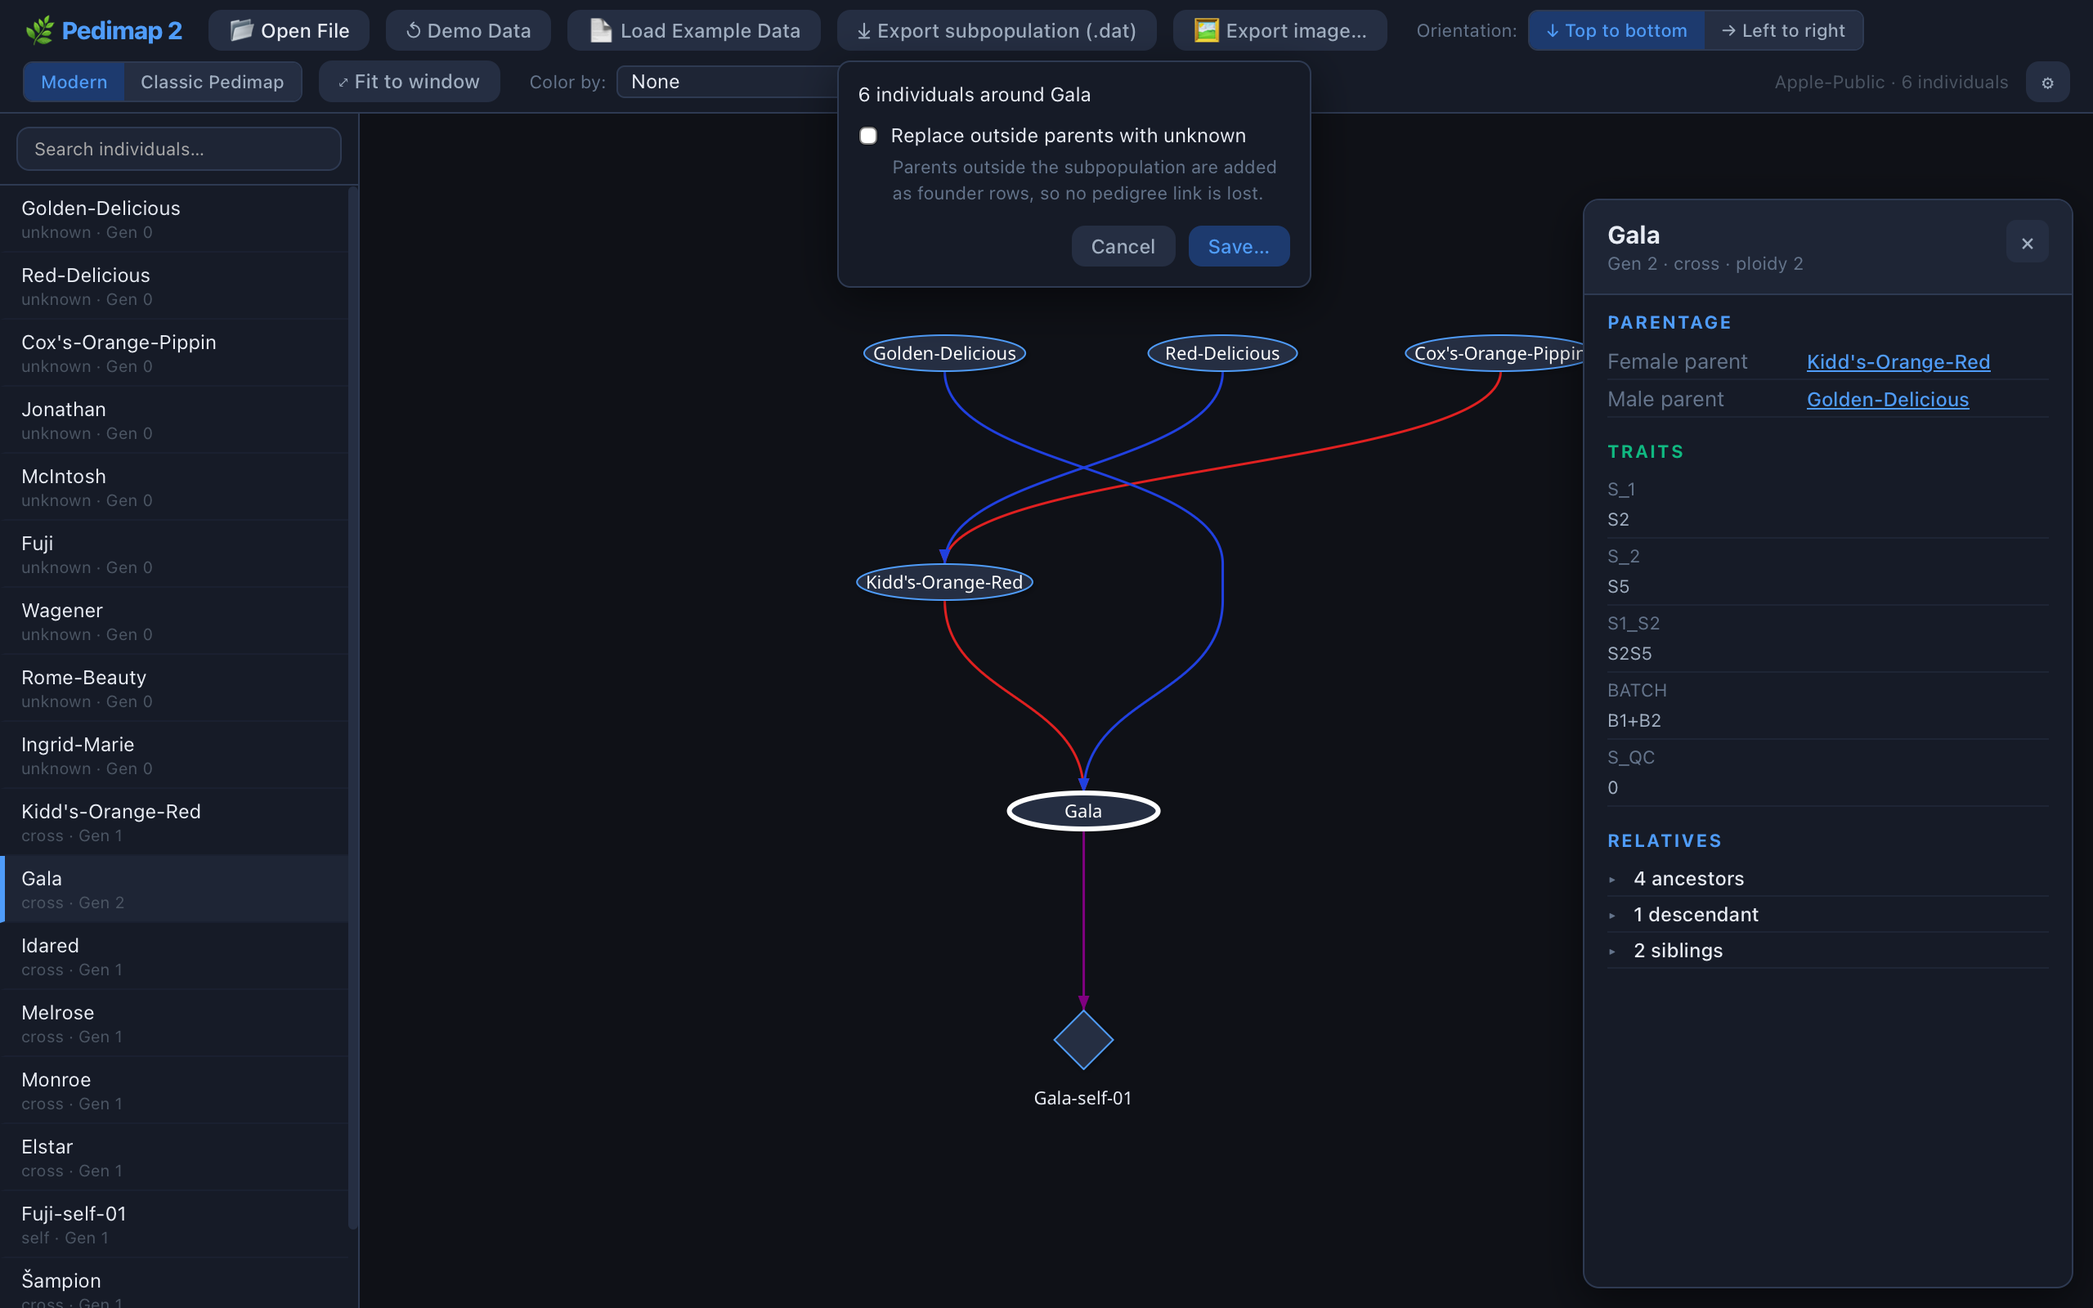
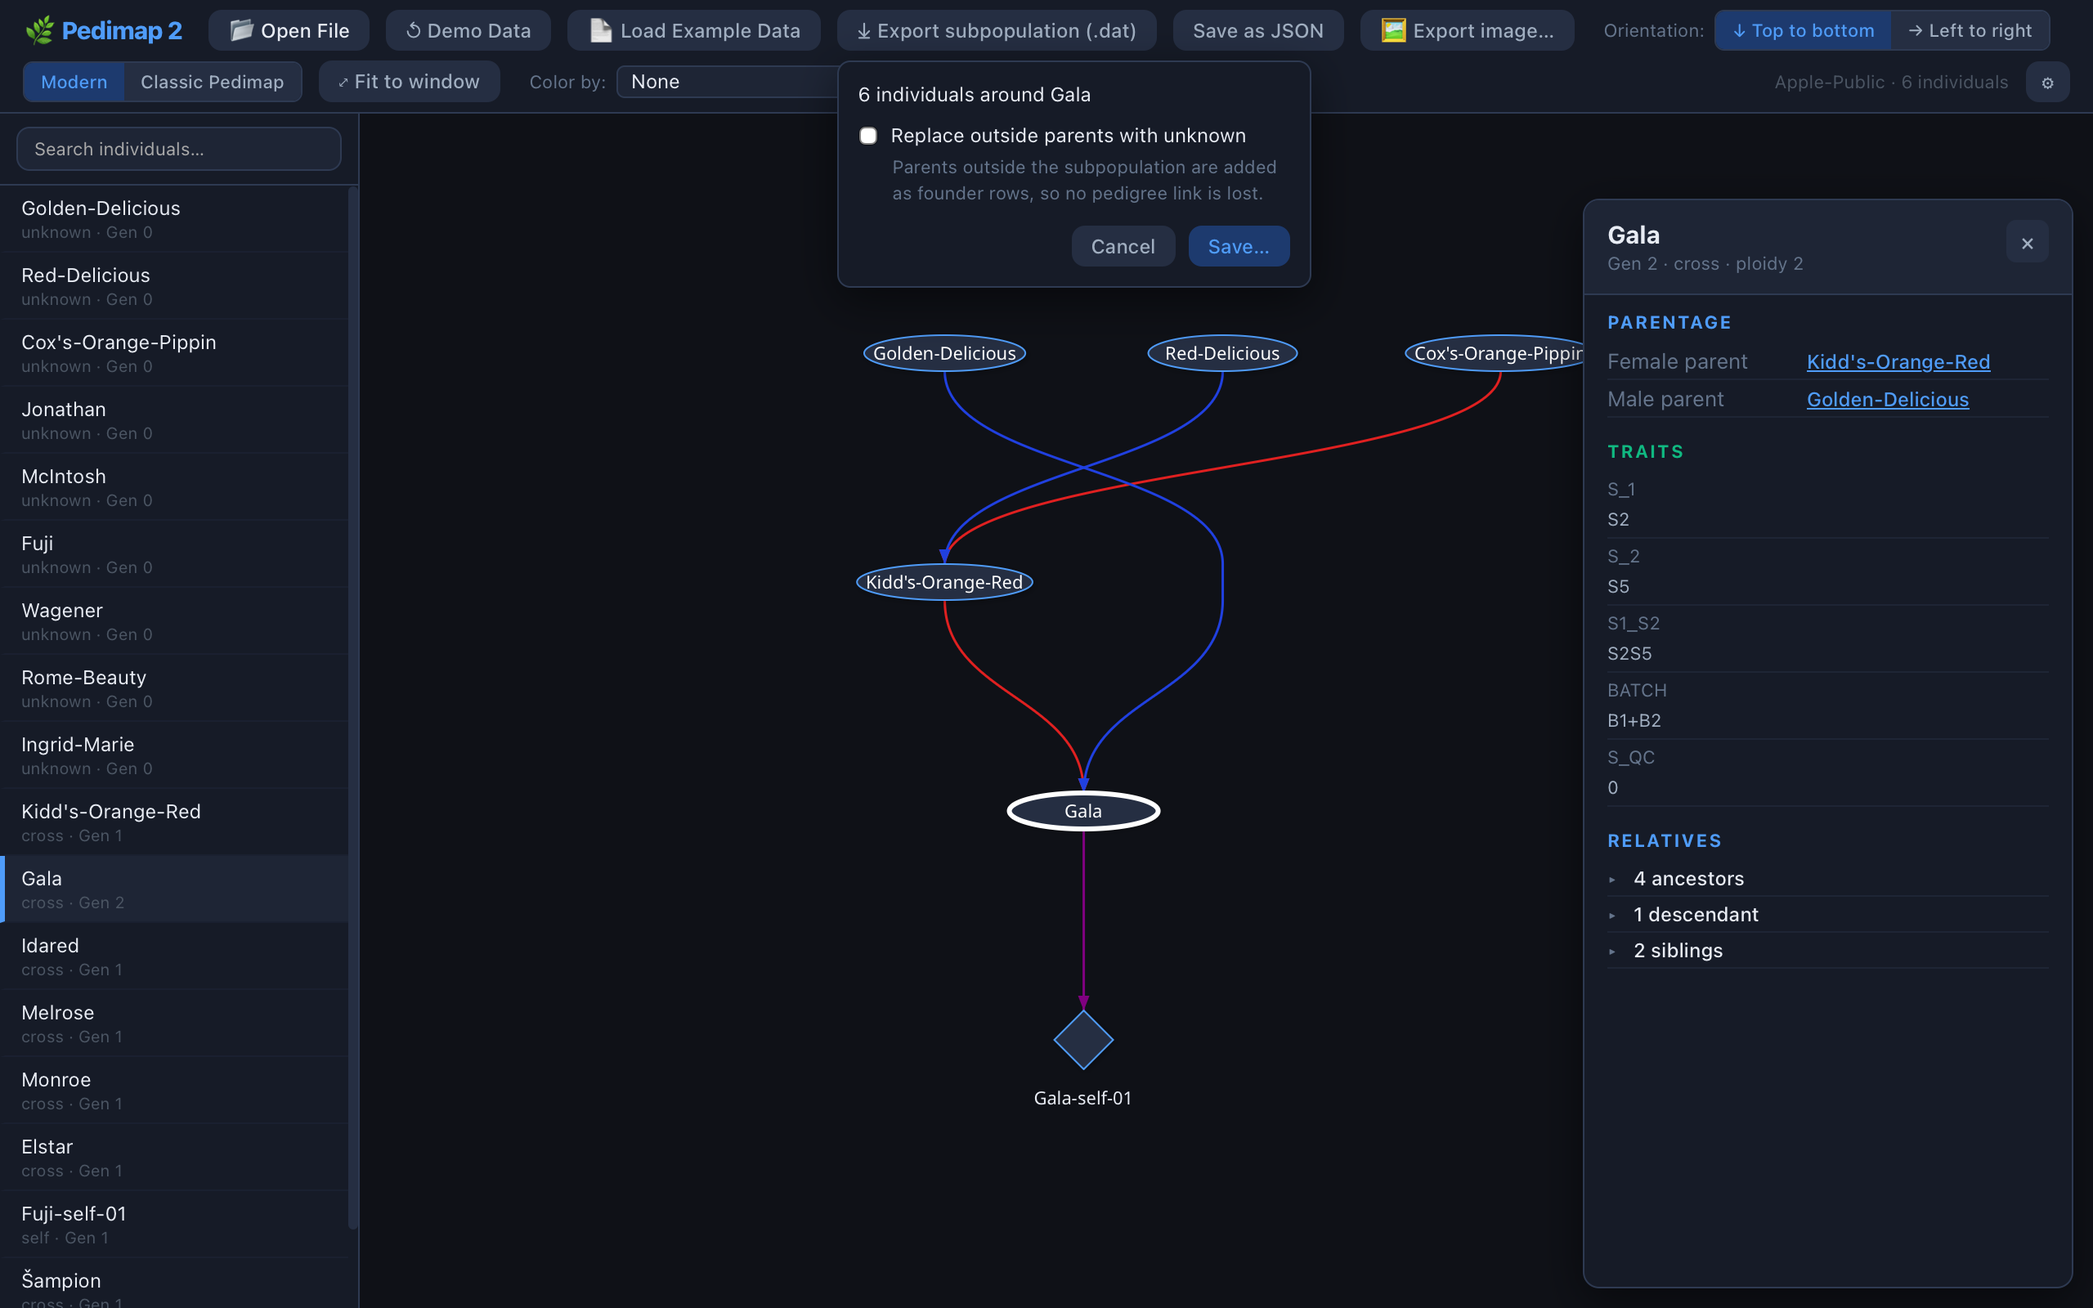
release: 2.5.0 (manual, README, CHANGELOG)
Manual: the on-screen founder-allele legend (ch. 3, 5, 6, with a new
screenshot), Save as JSON (ch. 4, 5, 7 with a new section, 9) and Parent 1
/ Parent 2 for data without parent columns (ch. 5, 6); Appendix A for
Pedimap 2.5 with the legend on screen; title page for 2.5. Screenshots
regenerated (the toolbar gained Save as JSON); the legend is collapsed in
the palette crops and the tooltip shot.

README: Save as JSON with a link to the format, the legend in the IBD row,
a roadmap line for 2.5.0. CHANGELOG [2.5.0]. Version 2.5.0 in the four
version files and both lockfiles.

Changed region(s): [[0.5625, 0.0, 1.0, 0.0625]]

diff --git a/frontend/docs-screenshots/manual.spec.ts b/frontend/docs-screenshots/manual.spec.ts
@@ -119,6 +119,8 @@ test("ibd-bars-example.png: linkage group A, the mouse on 81015-045 at 0 cM", as
   await loadExample(page);
   await page.getByLabel("IBD bars").selectOption("A");
   await settle(page);
+  // This one is about the tooltip; the legend has its own screenshot.
+  await page.getByRole("group", { name: "Founder alleles" }).getByRole("button").click();
   const b = (await boxOf(page, "81015-045"))!;
   // In the box (lib/haplotype.ts, haplotypeBox, default settings): the first
   // homologue's bar starts BOX.gap/2 + barWidth left of the middle, below the
@@ -133,9 +135,11 @@ test("ibd-bars-example.png: linkage group A, the mouse on 81015-045 at 0 cM", as
   await page.mouse.move(x, y);
   await page.waitForTimeout(400);
   await expect(page.getByText(/0\.22/)).toBeVisible();
+  // The box, the lines into it and the tooltip; starting just left of the
+  // box keeps the legend in the chart's corner out of the picture.
   const pad = 140;
   await page.screenshot({ path: out("ibd-bars-example.png"),
-    clip: { x: Math.max(0, b.left - pad), y: Math.max(0, b.top - pad), width: b.width + 2 * pad + 220, height: b.height + 2 * pad } });
+    clip: { x: b.left - 30, y: Math.max(0, b.top - pad), width: b.width + 30 + pad + 220, height: b.height + pad + 30 } });
 });
 
 test("details-ibd.png: the IBD section of 81015-045, group A at 0 cM", async ({ page }) => {
@@ -243,6 +247,8 @@ test("flexqtl-by-founder.png, flexqtl-by-allele.png: the same part of the chart 
   await loadFixture(page, FLEXQTL);
   await page.getByLabel("IBD bars").selectOption({ index: 1 });            // linkage group 1
   await settle(page);
+  // The legend has its own screenshot; collapsed, it covers none of the boxes.
+  await page.getByRole("group", { name: "Founder alleles" }).getByRole("button").click();
   // Zoom in on generations 2 and 3, around G3_010, and keep ten boxes of each.
   await zoomAt(page, "G3_010", 9);
   const ids = ["G2", "G3"].flatMap(g => Array.from({ length: 10 }, (_, i) => `${g}_${String(i + 6).padStart(3, "0")}`));
@@ -254,6 +260,14 @@ test("flexqtl-by-founder.png, flexqtl-by-allele.png: the same part of the chart 
   await page.getByTitle("Settings").click();                 // close it again
   await restMouse(page);
   await page.screenshot({ path: out("flexqtl-by-allele.png"), clip: area });
+});
+
+test("ibd-legend.png: the example with IBD bars and the founder-allele legend", async ({ page }) => {
+  await loadExample(page);
+  await page.getByLabel("IBD bars").selectOption("A");
+  await settle(page);
+  await expect(page.getByRole("group", { name: "Founder alleles" })).toBeVisible();
+  await page.screenshot({ path: out("ibd-legend.png"), clip: await chartArea(page) });
 });
 
 // ── Chapters 7 and 8: subpopulations, export, large pedigrees ────────────────

diff --git a/docs/09_faq.md b/docs/09_faq.md
@@ -83,8 +83,9 @@ to **By founder allele**, or show a subpopulation, which has fewer founders.
 
 **The colors of a founder changed.**
 Colors are shared out over the founders of the individuals shown, so they
-change when you show a subpopulation or open another file. The exported
-image's legend always gives the colors of that image.
+change when you show a subpopulation or open another file. The legend at the
+lower left of the chart always gives the colors shown, and an exported
+image's legend those of that image.
 
 ## Exporting
 
@@ -97,7 +98,8 @@ Very large charts are saved at a lower resolution, to stay within 16,000
 pixels per side. Save an SVG or PDF instead.
 
 **Can I save a JSON file?**
-Not yet. Save the pedigree as a `.dat` file ([Chapter 7](07_data_export.md)).
+Yes: **Save as JSON** saves the whole population with all of its data. For a
+subpopulation, use **Export subpopulation (.dat)** ([Chapter 7](07_data_export.md)).
 
 ## Appendix A: Pedimap 2 and the original Pedimap
 
@@ -106,7 +108,7 @@ colors and IBD probabilities and shows the marker data, in a classic display
 style like Pedimap 1.x's and a modern one. Several features of Pedimap 1.x are not
 available yet:
 
-| Pedimap 1.x | Pedimap 2.4 |
+| Pedimap 1.x | Pedimap 2.5 |
 |------------------------------------------|-----------------------------------|
 | Several **views** of a population, each with its own options | One view. Its settings are remembered. |
 | A **population panel** with a tree of named subpopulations, which can be combined | One subpopulation at a time: an individual's ancestors and descendants |
@@ -114,7 +116,7 @@ available yet:
 | An **information panel** that follows the mouse | A hover box, and the details panel on a click |
 | **Marker scores** and **most probable alleles** inside the boxes | Shown in the details panel, not yet in the boxes |
 | **IBD probabilities** inside the boxes | **IBD bars**, with two palettes and an adjustable width |
-| An **on-screen legend** of the IBD colors | In exported images only; not yet on screen |
+| An **on-screen legend** of the IBD colors | On screen at the lower left of the chart (it can be collapsed), and in exported images |
 | **IBD probabilities for polyploids** | Diploids only; a file with IBD data and another ploidy is refused |
 | A sortable **table of individuals** with their data | A list of names with a search box, and the details panel |
 | Adjustable **spacing** between generations and individuals | Not adjustable yet |
@@ -127,8 +129,8 @@ available yet:
 What Pedimap 2 adds: the Modern display style, lines routed so that they
 never pass through a box, image export as PNG, SVG and PDF with legends, the
 reading of FlexQTL and Binko.jl files as their specification describes, IBD
-bars with color-blind-aware palettes, coloring by marker, and automatic
-updates.
+bars with color-blind-aware palettes, coloring by marker, saving a whole
+population with all of its data as JSON, and automatic updates.
 
 ## Appendix B: FlexQTL genotype codes
 

diff --git a/docs/05_interface.md b/docs/05_interface.md
@@ -18,6 +18,7 @@ the **details panel** on the right.
 | **Demo Data** | Shows the small made-up demo pedigree that Pedimap starts with |
 | **Load Example Data** | Opens the example apple pedigree of [Chapter 3](03_quickstart.md) |
 | **Export .dat** | Saves the pedigree as a `.dat` file. While a subpopulation is shown, it reads **Export subpopulation (.dat)** ([Chapter 7](07_data_export.md)) |
+| **Save as JSON** | Saves the whole population, with all of its data, as a Pedimap 2 JSON file ([Chapter 7](07_data_export.md)) |
 | **Export image…** | Saves the chart as a PNG, SVG or PDF image ([Chapter 7](07_data_export.md)) |
 | **Orientation** | **Top to bottom** (generations as rows) or **Left to right** (generations as columns) |
 | **Modern** / **Classic Pedimap** | The display style ([Chapter 6](06_visualization.md)) |
@@ -56,6 +57,11 @@ the **details panel** on the right.
 - Drag an individual sideways to move it within its row. It cannot pass its
   neighbors in the row, so lines keep clear of every box.
 
+**Legends** sit at the lower left of the chart: the legend of a discrete
+coloring, and above it, while IBD bars are shown, the legend of the founder
+alleles. Click the founder-allele legend's title to collapse it to that
+title; Pedimap remembers your choice.
+
 A large pedigree takes a moment to arrange; Pedimap then shows "Laying
 out…" first. Above the drawing limit, the individuals are listed instead of
 drawn ([Chapter 8](08_advanced.md)).
@@ -75,8 +81,9 @@ The panel shows everything known about the selected individual. Under its
 name: its generation, its cross type and its ploidy.
 
 - **Parentage:** its two parents, labeled as the file names them ("Female
-  parent" and "Male parent", or "Parent 1" and "Parent 2"). Click a parent to
-  select it.
+  parent" and "Male parent", or "Parent 1" and "Parent 2"). Data that does not
+  name its parent columns, such as the demo data, has "Parent 1" and "Parent
+  2". Click a parent to select it.
 - **Traits:** each trait value; a continuous value with a bar showing where it
   lies in the trait's range.
 - **Relatives:** the numbers of ancestors, descendants and siblings. Click a

diff --git a/CHANGELOG.md b/CHANGELOG.md
@@ -10,6 +10,27 @@ release notes, so every release needs its own section here before it is tagged.
 
 ## [Unreleased]
 
+## [2.5.0] — 2026-11-25
+
+### Added
+- **A legend of the founder alleles on screen.** While IBD bars are shown, a
+  legend at the lower left of the chart lists each founder with the numbers
+  and colors of its founder alleles, as the legend of an exported image does,
+  above the legend of a discrete coloring. Click its title to collapse it;
+  Pedimap remembers your choice.
+- **Save as JSON** saves the whole population with all of its data (pedigree,
+  traits, marker genotypes and codes, IBD probabilities) as a Pedimap 2 JSON
+  file; opening it again gives the same data. The format is described in
+  `docs/reference/json-format.md`, and files carry a format version: a file
+  from a newer Pedimap 2 opens with a warning that some data may not be shown.
+  To save a subpopulation, use Export subpopulation (.dat).
+
+### Changed
+- Data that does not name its parent columns, such as the demo data, labels
+  its parents "Parent 1" and "Parent 2" instead of "Female parent" and "Male
+  parent", since it does not state their sex. Its `.dat` export writes the
+  columns as `PARENT1` and `PARENT2`.
+
 ## [2.4.0] — 2026-11-24
 
 Pedimap 2 now draws IBD haplotypes on the chart. For a file with IBD
@@ -308,7 +329,8 @@ _2.1.1 was built but never released (macOS backend failed to start)._
 - Demo apple breeding dataset.
 - Windows installers (`.exe` and `.msi`).
 
-[Unreleased]: https://github.com/Fresnedo-Lab/pedimap2/compare/v2.4.0...HEAD
+[Unreleased]: https://github.com/Fresnedo-Lab/pedimap2/compare/v2.5.0...HEAD
+[2.5.0]: https://github.com/Fresnedo-Lab/pedimap2/compare/v2.4.0...v2.5.0
 [2.4.0]: https://github.com/Fresnedo-Lab/pedimap2/compare/v2.3.1...v2.4.0
 [2.3.1]: https://github.com/Fresnedo-Lab/pedimap2/compare/v2.3.0...v2.3.1
 [2.3.0]: https://github.com/Fresnedo-Lab/pedimap2/compare/v2.2.2...v2.3.0

diff --git a/README.md b/README.md
@@ -83,9 +83,9 @@ and precalculated IBD probabilities.
 | Details panel — parents, traits, expandable lists of relatives, marker genotypes with their codes, and the most probable founder alleles at each IBD position | ✅ |
 | Color by a marker — genotype code, or copies of an allele, with a legend | ✅ |
 | Marker data summary — loci, linkage groups, IBD positions, codes in use | ✅ |
-| IBD haplotype bars — each individual's two homologues along a linkage group, colored by founder or by founder allele, with hover details; bar width and palette in ⚙ | ✅ |
+| IBD haplotype bars — each individual's two homologues along a linkage group, colored by founder or by founder allele, with hover details and an on-screen legend of the founder alleles; bar width and palette in ⚙ | ✅ |
 | Fit to window — toolbar button or **F** | ✅ |
-| Opening `.json` pedigree files (Pedimap 2's own format); saving one from the app is planned | ✅ |
+| Save as JSON — the whole population with all of its data, in Pedimap 2's own format ([described here](docs/reference/json-format.md)); opened again, it gives the same data | ✅ |
 | Legacy `.dat` export — whole population or displayed subpopulation; reads back unchanged | ✅ |
 | Image export — PNG, SVG or PDF of the whole displayed chart, with the trait legend and the founder-allele legend of the IBD bars, on white or as on screen | ✅ |
 | Drawing limit — populations above 1,000 individuals (⚙) are listed, not drawn | ✅ |
@@ -341,6 +341,7 @@ users never install Python.
 - [x] Color by genotype code or allele copies at a marker, with a legend (2.3.0)
 - [x] Names readable on every fill (WCAG AA contrast), on screen and in exports (2.3.0)
 - [x] IBD haplotype bars on the chart per linkage group, with a founder-allele legend in image exports and settings for bar width and palette (2.4.0)
+- [x] On-screen legend of the founder alleles; Save as JSON (2.5.0)
 
 ---
 

diff --git a/docs/06_visualization.md b/docs/06_visualization.md
@@ -54,7 +54,8 @@ first parent and blue the line from the second. Files from FlexQTL and
 Binko.jl name the columns `PARENT1` and `PARENT2` and do not state the
 parents' sex; files with `FEMALE` and `MALE` columns do, and there the first
 parent is the female. A file may also list `MALE` before `FEMALE`: the
-female's line is then still red.
+female's line is then still red. Data that does not name its parent columns,
+such as the demo data, calls its parents "Parent 1" and "Parent 2".
 
 **Cross symbols.** When cross symbols are on (**Settings → Show cross
 symbols**), the lines from the two parents meet at a ×, and one line runs
@@ -191,8 +192,14 @@ apart for the three main kinds of color blindness as well. With dozens of
 founders, some colors are still alike; hold the mouse over a segment, or
 look at the details panel, to be sure.
 
-In an exported image, a legend lists each founder with the numbers and
-colors of its founder alleles ([Chapter 7](07_data_export.md)).
+A **legend** at the lower left of the chart lists each founder with the
+numbers and colors of its founder alleles, the gray of merged small
+probabilities when there is any, and in its title the linkage group and the
+probability below which segments are merged. It shows the same rows as the
+legend of an exported image ([Chapter 7](07_data_export.md)). Click its title
+to collapse it; Pedimap remembers your choice.
+
+![The founder-allele legend of the example, linkage group A](images/ibd-legend.png)
 
 ### The gray remainder and the bar width
 

diff --git a/docs/07_data_export.md b/docs/07_data_export.md
@@ -88,9 +88,24 @@ population's founder alleles, and says so in a comment line. Its founders'
 alleles may therefore belong to founders that are not in the file. Pedimap 2
 reads such files; whether Pedimap 1.x does has not been tested.
 
+## Saving the pedigree as JSON
+
+Click **Save as JSON** in the toolbar, then choose where to save the file.
+Pedimap suggests a name from the pedigree's name, for example `Apples.json`.
+
+The file holds the **whole population** with all of its data: the pedigree,
+every trait value, the marker genotypes with their codes, the IBD
+probabilities, and what Pedimap read from the original file's header.
+Opening it again gives the same data. It is saved in UTF-8.
+
+Save as JSON always saves the whole population, also while a subpopulation
+is shown. To save a subpopulation, use **Export subpopulation (.dat)**.
+
+The [JSON format reference](reference/json-format.md) describes every field,
+for anyone who wants to read or write such files with other software.
+
 ## What Pedimap does not save yet
 
-- **JSON files.** Pedimap opens `.json` files but cannot yet save one.
 - **Changes to the data.** Pedimap shows your data; it does not edit it. To
   correct a name or a value, edit the data file and open it again.
 - **Printing.** Save a PDF and print it from your PDF viewer.

diff --git a/docs/04_file_formats.md b/docs/04_file_formats.md
@@ -146,9 +146,15 @@ specification](reference/flexqtl-binko-pedimap/README.md) describes:
 
 ## JSON files (.json)
 
-A `.json` file holds a pedigree in Pedimap 2's own format, with all of its
-data. Pedimap opens such files, but cannot yet save one: to keep a pedigree,
-export it as a `.dat` file ([Chapter 7](07_data_export.md)).
+A `.json` file holds a whole population in Pedimap 2's own format, with all
+of its data: the pedigree, traits, marker genotypes with their codes, and IBD
+probabilities. Pedimap opens such files and saves them (**Save as JSON**,
+[Chapter 7](07_data_export.md)); opening a saved file gives the same data.
+The format is described in the [JSON format reference](reference/json-format.md),
+for anyone who wants to read or write it with other software.
+
+A file saved by a newer Pedimap 2, in a later version of the format, opens
+with a warning that some of its data may not be shown.
 
 ## Project files (.pmp)
 

diff --git a/docs/03_quickstart.md b/docs/03_quickstart.md
@@ -102,7 +102,8 @@ bottom:
 - the **left bar** is the copy from the first parent, the **right bar** the
   copy from the second parent;
 - each founder has its own color, in a light and a dark shade for its two
-  alleles: GoldenD orange, IngridM purple, Jonathan green, Cox pink;
+  alleles: GoldenD orange, IngridM purple, Jonathan green, Cox pink. A legend
+  at the lower left of the chart lists them; click its title to collapse it;
 - where the data cannot tell which founder allele a segment comes from, the
   bar is split across its width in proportion to the probabilities. A split
   shows **uncertainty, not a mixture**: each segment of a homologue descends

diff --git a/docs/README.md b/docs/README.md
@@ -3,7 +3,7 @@
 Pedimap 2 draws the pedigrees of plant breeding populations, with their
 trait values, marker genotypes and IBD probabilities. This manual is for
 breeders and geneticists who use it; you need no programming. It describes
-Pedimap 2.4.
+Pedimap 2.5.
 
 ## Contents
 
